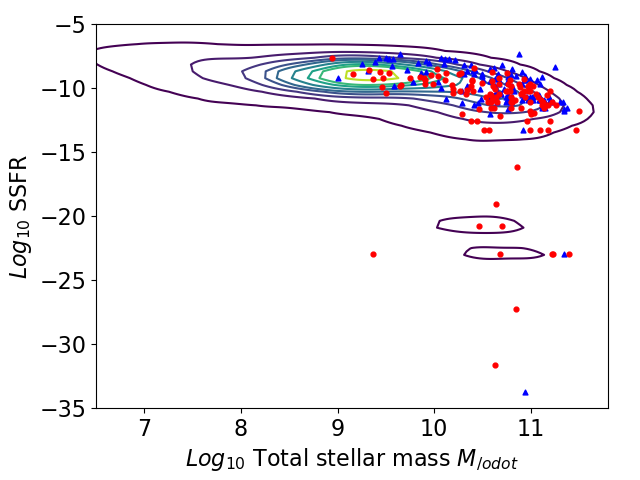
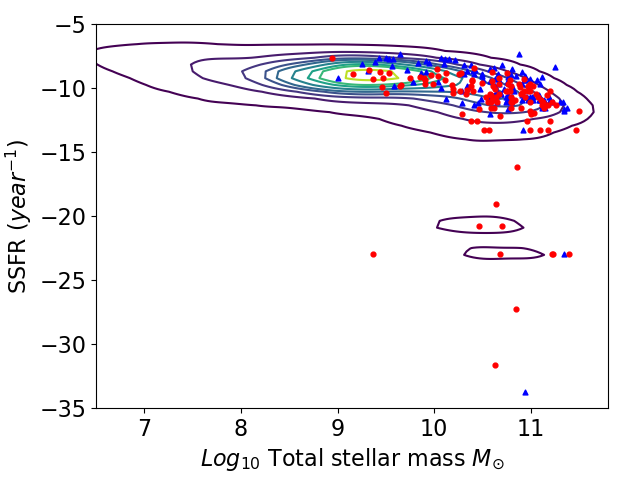
even newer plots

Changed region(s): [[0.2812, 0.9375, 0.8125, 1.0], [0.0, 0.2812, 0.0625, 0.625]]

diff --git a/Plotting-script.py b/Plotting-script.py
@@ -55,7 +55,7 @@ def ssfr_mass_graph(filenum,contour_data):
 
     plt.subplots_adjust(bottom=0.15,top=0.95,left=0.15,right=0.95)
 
-    sns.kdeplot(data=contour_data,x='zpdf',y='mass_best',cmap='viridis',zorder=1) 
+    sns.kdeplot(data=contour_data,x='mass_best',y='ssfr_best',cmap='viridis',zorder=1) 
     # Seaborn (sns here) does contour plots really well, just needs an x and y input and its all sorted
     #In general, the 'data' parameter tells the function where to get data from, here it takes data from 'contour_data' with the x coords being
     #   'mass_best' and y being 'ssfr_best', both of these are column names from the 'contour_data' data frame
@@ -63,17 +63,17 @@ def ssfr_mass_graph(filenum,contour_data):
     #zorder determines which plot is made first, here the lines are in the background so zorder is 1
     #cmap just sets a colour scheme for the contour lines, if you want a different map theres a list here: https://matplotlib.org/stable/gallery/color/colormap_reference.html
 
-    ax.scatter('zpdf_1','mass_best',c='b',s=12,data=agns,marker='^',label='AGNs',zorder=2)
-    ax.scatter('zpdf_1','mass_best',c='r',s=12,data=gals,label='Galaxies',zorder=3)
+    ax.scatter('mass_best','ssfr_best',c='b',s=12,data=agns,marker='^',label='AGNs',zorder=2)
+    ax.scatter('mass_best','ssfr_best',c='r',s=12,data=gals,label='Galaxies',zorder=3)
     # This does the scattering of the agn and non-agn points
     # All the formatting is done in the arguments (c,s,data, etc)
     # c is the colour, s is the size, marker is the shape of the point
     # some of these can take multiple different input formats, please see the matplotlib documentation for each function
 
-    ax.set_xlabel('Redshift')
-    ax.set_ylabel('$Log_{10}$ Total stellar mass $M_{/odot}$')
-    ax.set_ylim(top=11.6,bottom=6.5)
-    ax.set_xlim(left=0.24,right=0.91)
+    ax.set_xlabel('$Log_{10}$ Total stellar mass $M_{\odot}$')
+    ax.set_ylabel('SSFR $(year^{-1})$')
+    ax.set_ylim(top=-5,bottom=-35)
+    ax.set_xlim(left=6.5,right=11.8)
     #add background of wider cosmos galaxy samples - contour plot [DONE]
     #histogram of ssfr and mass
     #anderson-darling for ssfr
@@ -83,7 +83,7 @@ def ssfr_mass_graph(filenum,contour_data):
     plt.show()
 
 i = 1
-big_data = getbigdata('zpdf','mass_best')
+big_data = getbigdata('mass_best','ssfr_best')
 while i <= 10:
     ssfr_mass_graph(i,big_data)
     i+=1

diff --git a/anderson_ksamp.py b/anderson_ksamp.py
@@ -1,7 +1,7 @@
 import numpy as np
 from scipy import stats
 from astropy.io import fits
-
+import pandas as pd
 
 
 
@@ -13,29 +13,39 @@ It should be easily adaptable to other tests, and I may later incorporate it int
 
 For the time being, change the parameters to test within the code itself
 
-'''
+
 
 
 with fits.open('/Users/Jet26/Documents/Data/Graph plotting/nonAGNLim') as hdu:
     data_agn = hdu[1].data
     mass_agn = data_agn.field('mass_best')
     zpdf_agn = data_agn.field('zpdf')   # This converts the relevant column in the fits file into a 1D numpy array
-    sfr_agn = data_agn.field('sfr_best')
+    ssfr_agn = data_agn.field('sfr_best')
 
 with fits.open('/Users/Jet26/Documents/Data/Graph plotting/AGNLim') as hdu:
     data_nagn = hdu[1].data
     mass_nagn = data_nagn.field('mass_best')
     zpdf_nagn = data_nagn.field('zpdf')
-    sfr_nagn = data_nagn.field('sfr_best')
+    ssfr_nagn = data_nagn.field('sfr_best')
 
 # Now the important data has been unloaded into variables, we can begin doing tests
 
 res_mass = stats.anderson_ksamp((mass_agn,mass_nagn)) # mass test
 res_zpdf = stats.anderson_ksamp((zpdf_agn,zpdf_nagn)) # reshift test
-res_sfr = stats.anderson_ksamp((sfr_agn,sfr_nagn)) # sfr test
+res_sfr = stats.anderson_ksamp((ssfr_agn,ssfr_nagn)) # sfr test
 
 print(res_mass)
 input()
 print(res_zpdf)
 input()
 print(res_sfr)
+
+'''
+
+data = pd.read_csv('Matched-2-catalogue/Set 5.csv',header = 0, delimiter=',')
+agns = data[data['AGN or not'] == 0]
+gals = data[data['AGN or not'] == 1]
+
+ssfr_matched = stats.anderson_ksamp((agns['ssfr_best'],gals['ssfr_best']))
+
+print(ssfr_matched)
